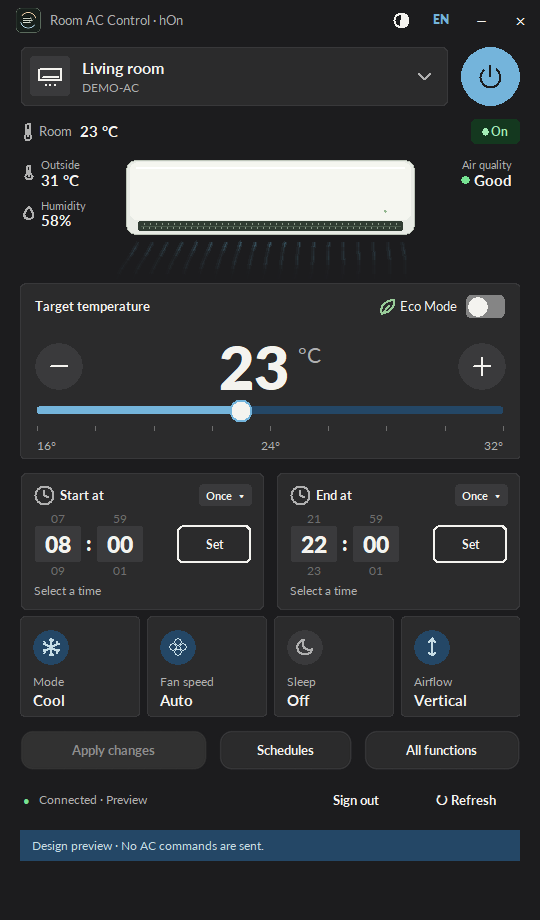
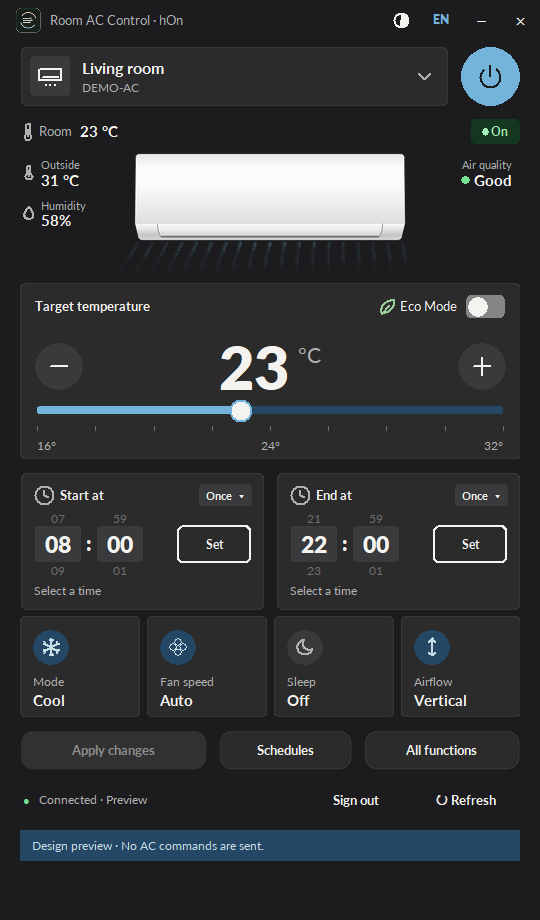
Draw the AC unit in hOn's style and drop Appearance from All functions (v0.1.22) (#27)
The unit artwork was a flat box with a grey outline. Redraw it after
the illustration in the hOn app: a soft white body, a curved lower
flap with a louvre panel and a dark air outlet, shaded rather than
outlined, with a faint contact shadow so it reads on light pages and
disappears on dark ones. It is still an original drawing rendered by
tools/render_assets.py.

unit_photo now scales with Lanczos instead of Tk's pixel-dropping
subsample, so the smaller copies stay smooth. The sizes are unchanged.

Appearance stays in the main window header; the All functions footer
no longer repeats it.

Changed region(s): [[0.2074, 0.1522, 0.7704, 0.2739]]

diff --git a/tools/render_assets.py b/tools/render_assets.py
@@ -1,9 +1,72 @@
 """Render this project's original geometric artwork; no third-party images."""
 from pathlib import Path
-from PIL import Image, ImageDraw
+from PIL import Image, ImageDraw, ImageFilter
+
+SS=4  # Supersampling factor for smooth edges.
 
 ROOT=Path(__file__).resolve().parents[1]
 ASSETS=ROOT/'src'/'room_ac_control'/'assets'
+
+
+def gradient(size,stops):
+    """Vertical gradient; stops are (0..1 from the top, '#rrggbb')."""
+    width,height=size
+    image=Image.new('RGBA',size)
+    rgb=[(t,tuple(int(c[i:i+2],16) for i in (1,3,5))) for t,c in stops]
+    for y in range(height):
+        t=y/max(1,height-1)
+        for (t0,a),(t1,b) in zip(rgb,rgb[1:]):
+            if t0<=t<=t1:
+                k=(t-t0)/max(1e-9,t1-t0)
+                color=tuple(round(a[i]+(b[i]-a[i])*k) for i in range(3))
+                break
+        else:color=rgb[-1][1]
+        ImageDraw.Draw(image).line((0,y,width,y),fill=color+(255,))
+    return image
+
+
+def paste_shape(canvas,draw_mask,stops):
+    """Fill a shape (drawn white on a mask) with a vertical gradient."""
+    mask=Image.new('L',canvas.size,0)
+    draw_mask(ImageDraw.Draw(mask))
+    box=mask.getbbox()
+    fill=gradient((box[2]-box[0],box[3]-box[1]),stops)
+    canvas.paste(fill,box[:2],mask.crop(box))
+
+
+def render_unit():
+    """A slim wall unit: soft white body, curved lower flap and a dark air outlet.
+
+    Shading only, no outline, so it sits on light and dark pages alike."""
+    s=SS
+    unit=Image.new('RGBA',(1200*s,360*s),(0,0,0,0))
+    left,right,top,seam,bottom=60*s,1140*s,8*s,285*s,352*s
+    # Body: rounded top corners, sides flaring very slightly toward the seam.
+    paste_shape(unit,lambda d:(d.rounded_rectangle((left+3*s,top,right-3*s,seam+20*s),radius=14*s,fill=255),
+                               d.polygon([(left+3*s,top+40*s),(left,seam),(right,seam),(right-3*s,top+40*s)],fill=255),
+                               d.rectangle((0,seam,unit.width,unit.height),fill=0)),
+                [(0,'#e7e7e8'),(.22,'#fdfdfd'),(.45,'#fafafa'),(.7,'#eeeeef'),(1,'#dededf')])
+    # Lower flap tapering inward, with rounded bottom corners.
+    flap=lambda d:(d.polygon([(left,seam),(right,seam),(right-12*s,bottom-18*s),(left+12*s,bottom-18*s)],fill=255),
+                   d.rounded_rectangle((left+12*s,seam+20*s,right-12*s,bottom),radius=18*s,fill=255))
+    paste_shape(unit,flap,[(0,'#f8f8f7'),(.3,'#e8e8e8'),(.7,'#c6c5c6'),(1,'#d6d5d2')])
+    # Louvre panel set into the flap, its sides curving in toward the outlet.
+    depth=bottom-12*s-seam
+    side=lambda x0,direction:[(x0+direction*14*s*(t/24)**2.5,seam+depth*t/24) for t in range(25)]
+    left_side,right_side=side(150*s,1),side(1050*s,-1)
+    paste_shape(unit,lambda d:d.polygon(left_side+right_side[::-1],fill=255),[(0,'#fbfaf9'),(.5,'#ecebeb'),(1,'#cfcecf')])
+    draw=ImageDraw.Draw(unit)
+    for points in (left_side,right_side):
+        draw.line(points,fill='#8a8889',width=3*s,joint='curve')
+    # Air outlet and the seam between body and flap.
+    draw.rounded_rectangle((164*s,bottom-17*s,1036*s,bottom-10*s),radius=3*s,fill='#77787a')
+    draw.line((left,seam,right,seam),fill='#cfcfd0',width=2*s)
+    # A soft contact shadow, not an outline: it separates the white unit from
+    # light pages and disappears on dark ones.
+    shadow=Image.new('RGBA',unit.size,(40,40,36,0))
+    shadow.putalpha(unit.getchannel('A').point(lambda a:a*34//255).filter(ImageFilter.GaussianBlur(7*s)))
+    shadow=Image.alpha_composite(Image.new('RGBA',unit.size,(0,0,0,0)),shadow.transform(unit.size,Image.Transform.AFFINE,(1,0,0,0,1,-4*s)))
+    return Image.alpha_composite(shadow,unit).resize((1200,360),Image.Resampling.LANCZOS)
 
 
 def main():
@@ -19,16 +82,7 @@ def main():
     image.save(ASSETS/'app-icon.png')
     image.resize((52,52),Image.Resampling.LANCZOS).save(ASSETS/'app-mark.png')
     image.save(ASSETS/'app.ico',sizes=[(16,16),(24,24),(32,32),(48,48),(64,64),(128,128),(256,256)])
-    unit=Image.new('RGBA',(1200,360),(0,0,0,0))
-    draw=ImageDraw.Draw(unit)
-    draw.rounded_rectangle((23,31,1177,329),radius=40,fill='#e8ebe5',outline='#bdc5b9',width=4)
-    draw.rounded_rectangle((38,40,1162,271),radius=30,fill='#f5f6f0')
-    draw.line((62,62,1138,62),fill='#ffffff',width=5)
-    draw.rounded_rectangle((70,273,1130,313),radius=10,fill='#303c33')
-    for x in range(96,1120,24):draw.line((x,281,x-4,305),fill='#899889',width=3)
-    draw.line((83,296,1120,296),fill='#4a5a4c',width=3)
-    draw.ellipse((1054,230,1064,240),fill='#94b891')
-    unit.save(ASSETS/'unit.png')
+    render_unit().save(ASSETS/'unit.png')
 
 
 if __name__=='__main__':main()

diff --git a/tests/test_theme.py b/tests/test_theme.py
@@ -127,5 +127,29 @@ class ThemePreferenceTests(unittest.TestCase):
             self.assertIn(text, PORTUGUESE)
 
 
+
+class UnitArtworkTests(unittest.TestCase):
+    def test_artwork_has_no_hard_outline_and_scales_smoothly(self):
+        from PIL import Image
+        with Image.open(theme.ASSETS / "unit.png") as image:
+            image = image.convert("RGBA")
+            # Shaded like hOn's unit: no grey outline ring around the body edge.
+            middle = image.height // 2
+            edge = next(x for x in range(image.width) if image.getpixel((x, middle))[3] == 255)
+            self.assertGreater(sum(image.getpixel((edge, middle))[:3]) / 3, 200)
+        import tkinter as tk
+        try:
+            root = tk.Tk()
+        except tk.TclError as error:
+            self.skipTest(f"No display: {error}")
+        try:
+            root.withdraw()
+            for width, expected in ((330, (300, 90)), (230, (200, 60)), (300, (300, 90))):
+                photo = theme.unit_photo(root, width)
+                self.assertEqual((photo.width(), photo.height()), expected)
+        finally:
+            root.destroy()
+
+
 if __name__ == "__main__":
     unittest.main()

diff --git a/src/room_ac_control/functions_view.py b/src/room_ac_control/functions_view.py
@@ -154,7 +154,6 @@ class FunctionsView:
         self.apply_button.pack(side="left", expand=True, fill="x", padx=(0, 10))
         localized(ttk.Button(self.footer, text="Close", command=self.close)).pack(side="right")
         localized(ttk.Button(self.footer, text="Diagnostics", style="Ghost.TButton", command=app.export_diagnostics)).pack(side="right", padx=(0, 6))
-        localized(ttk.Button(self.footer, text="Appearance", style="Ghost.TButton", command=lambda:app.theme_menu(self.window))).pack(side="right",padx=(0,2))
         localized(ttk.Button(self.footer, text="Language", style="Ghost.TButton", command=lambda:app.language_menu(self.window))).pack(side="right",padx=(0,2))
         self.search.trace_add("write", lambda *args: self.update_placeholder())
         self.search.trace_add("write", lambda *args: self.render_section())

diff --git a/src/room_ac_control/theme.py b/src/room_ac_control/theme.py
@@ -136,10 +136,12 @@ def measure(widget, text, size, weight="normal"):
 
 
 def unit_photo(master, width=390):
-    """Load original, unbranded appliance artwork."""
-    photo = tk.PhotoImage(master=master, file=str(ASSETS / "unit.png"))
-    factor = max(1, math.ceil(photo.width() / width))
-    return photo.subsample(factor)
+    """Load original, unbranded appliance artwork, smoothly scaled to fit width."""
+    from PIL import Image, ImageTk
+    with Image.open(ASSETS / "unit.png") as image:
+        factor = max(1, math.ceil(image.width / width))
+        size = (image.width // factor, image.height // factor)
+        return ImageTk.PhotoImage(image.resize(size, Image.Resampling.LANCZOS), master=master)
 
 
 def rounded(canvas, x1, y1, x2, y2, radius=12, **options):

diff --git a/tests/ui_smoke.py b/tests/ui_smoke.py
@@ -50,6 +50,9 @@ if __name__ == "__main__":
     app.choice_panel.close()
     app.open_functions()
     view=app.functions_view
+    # Appearance lives only in the main window header, not the All functions footer.
+    footer=[child.cget("text") for child in view.footer.winfo_children() if child.winfo_class()=="TButton"]
+    assert "Appearance" not in footer and "Language" in footer and "Close" in footer, footer
     view.edit_setting(app.selected["controls"]["machMode"],None)
     assert view.choice_panel.options==main_modes
     view.choice_panel.choose(next(option["value"] for option in main_modes if option["label"]=="Heat Night"))

diff --git a/src/room_ac_control/__init__.py b/src/room_ac_control/__init__.py
@@ -1,2 +1,2 @@
 """Room AC Control: a community hOn controller for Windows."""
-__version__ = "0.1.21"
+__version__ = "0.1.22"

diff --git a/README.md b/README.md
@@ -79,11 +79,11 @@ Runtime builds, local environments, shortcuts and account files are excluded fro
 .\tools\Build.ps1
 ```
 
-The preview uses fictional rooms and does not load saved credentials. Use `--preview login` to review the welcome screen. Add `--language pt-PT` or `--language en`, or `--theme light` or `--theme dark`, to preview a specific language or appearance without changing your saved preferences. `tools/Build.ps1` produces `releases/Room-AC-Control-for-hOn-0.1.21-Windows-x64.zip` and a local app-icon shortcut. The build checks bundled assets, Windows encryption, tray imports and MQTT libraries without contacting an account.
+The preview uses fictional rooms and does not load saved credentials. Use `--preview login` to review the welcome screen. Add `--language pt-PT` or `--language en`, or `--theme light` or `--theme dark`, to preview a specific language or appearance without changing your saved preferences. `tools/Build.ps1` produces `releases/Room-AC-Control-for-hOn-0.1.22-Windows-x64.zip` and a local app-icon shortcut. The build checks bundled assets, Windows encryption, tray imports and MQTT libraries without contacting an account.
 
 Setup and build install full hash-verified Windows dependency locks. `Setup.ps1` prepares source execution; `Build.ps1` produces the portable executable. See [build verification](docs/BUILD_VERIFICATION.md) for checksums, source manifests, optional signing and CI attestations. Binaries remain unsigned until a valid signing certificate is supplied.
 
-Windows UI checks: `tests/ui_smoke.py`, `tests/refresh_smoke.py`, `tests/desktop_smoke.py`, and `tests/timer_smoke.py`, `tests/schedules_smoke.py` and `tests/window_header_smoke.py` (all three also run by ui_smoke). Active CI in `.github/workflows/windows.yml` pins actions to immutable commits, runs offline checks, and builds a portable Windows artifact for pull requests and pushes to main. Merging a PR that bumps the app version automatically builds, attests and publishes the release (for example `v0.1.21`); merges that keep the current version only build.
+Windows UI checks: `tests/ui_smoke.py`, `tests/refresh_smoke.py`, `tests/desktop_smoke.py`, and `tests/timer_smoke.py`, `tests/schedules_smoke.py` and `tests/window_header_smoke.py` (all three also run by ui_smoke). Active CI in `.github/workflows/windows.yml` pins actions to immutable commits, runs offline checks, and builds a portable Windows artifact for pull requests and pushes to main. Merging a PR that bumps the app version automatically builds, attests and publishes the release (for example `v0.1.22`); merges that keep the current version only build.
 
 See [Contributing](CONTRIBUTING.md) and the [user guide](docs/USER_GUIDE.md) for more detail.
 

diff --git a/docs/USER_GUIDE.md b/docs/USER_GUIDE.md
@@ -14,7 +14,7 @@ Changing language keeps your signed-in account, pending settings and open preset
 
 ## Choose light or dark
 
-Click the half-filled circle in the window header, or **Appearance** in All functions, to choose **Follow Windows**, **Light mode** or **Dark mode**. Follow Windows uses the app mode set in Windows Settings › Personalization › Colors and switches within a couple of seconds when you change it there. The choice applies immediately to every open window, keeps pending settings and drafts, and is saved for later launches.
+Click the half-filled circle in the main window header to open **Appearance** and choose **Follow Windows**, **Light mode** or **Dark mode**. Follow Windows uses the app mode set in Windows Settings › Personalization › Colors and switches within a couple of seconds when you change it there. The choice applies immediately to every open window, keeps pending settings and drafts, and is saved for later launches.
 
 ## Select an AC
 
